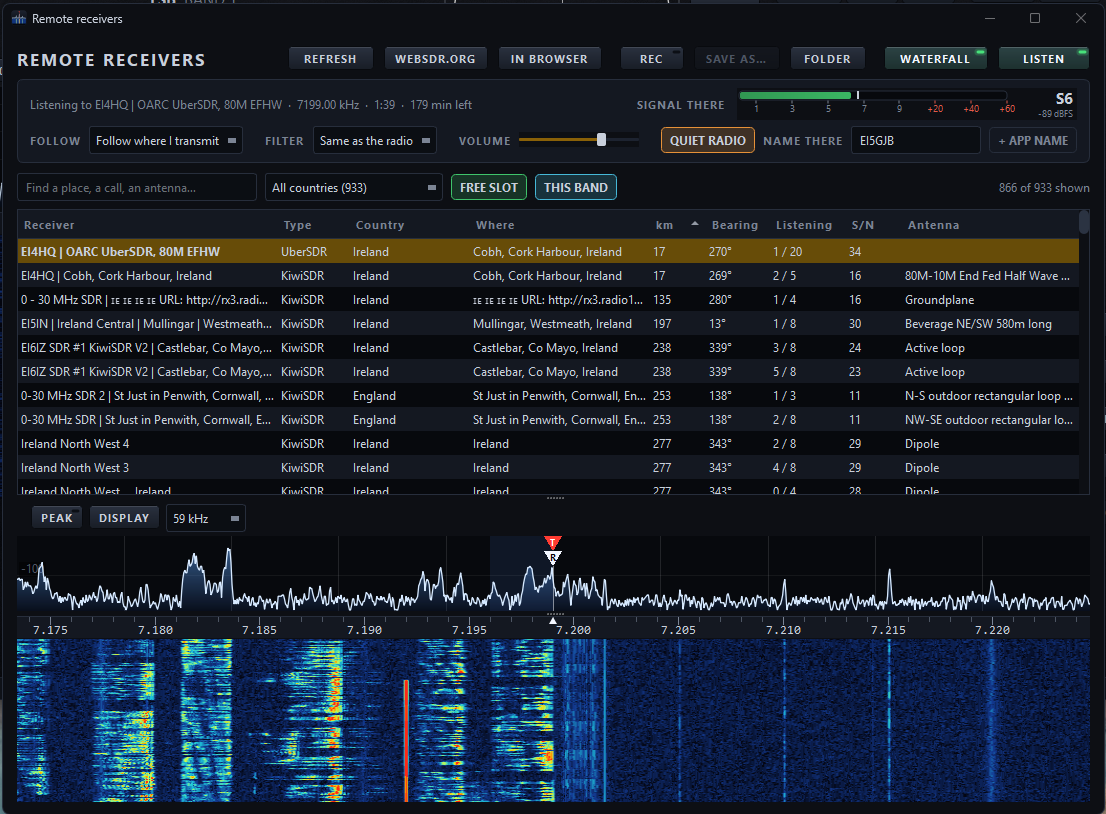
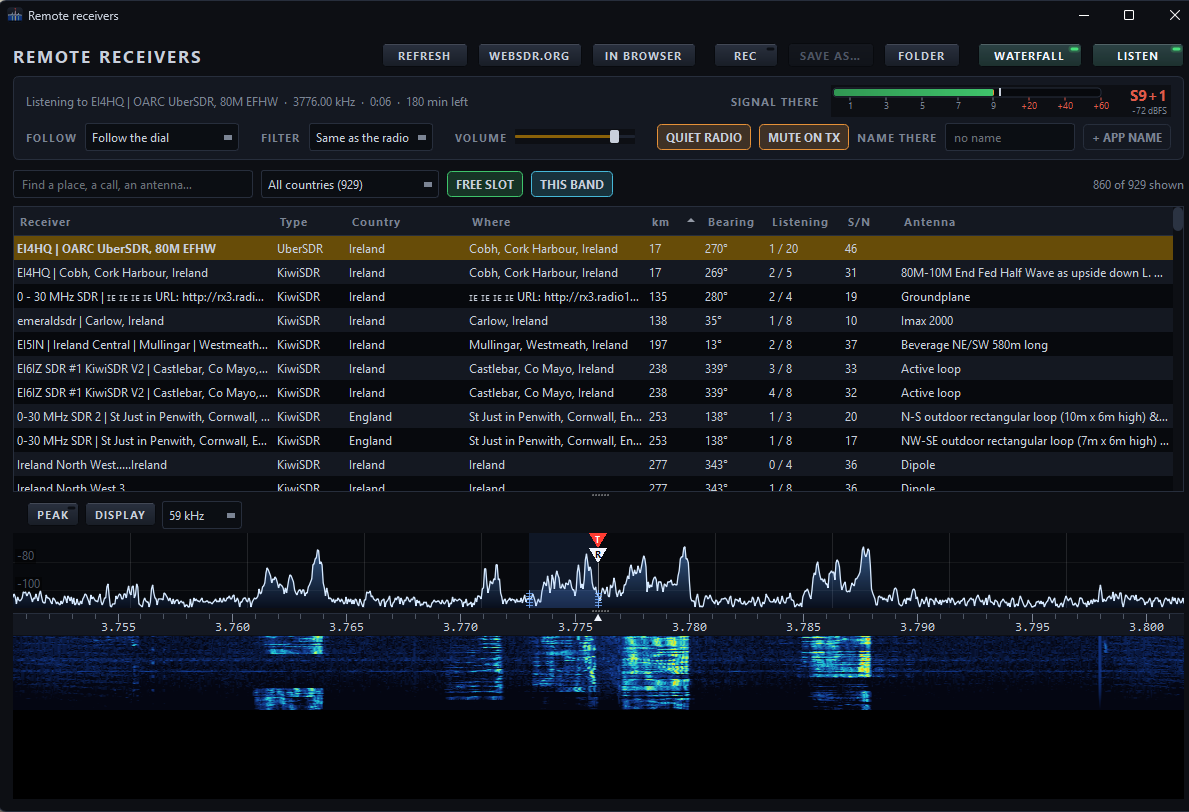
README for 2.4.10: remote audio, MUTE and MUTE ON TX, PROC OUT, filter scope

diff --git a/README.md b/README.md
@@ -27,13 +27,21 @@ comes over your network, because the USB serial link is too slow for a
 smooth scope. Or connect over the network alone, and use the radio from
 somewhere else.
 
-> **Version 2.4.9 replaces every earlier release.** Run its installer and it
+> **Version 2.4.10 replaces every earlier release.** Run its installer and it
 > removes the version you have and puts itself in its place: your settings,
 > layouts and logbook are kept. Updates only go forward, so everyone is on
 > the same version. If you use the Remote Relay at home, update that too
 > (see [Remote operation](#remote-operation-experimental)).
 
-**New in 2.4.9:** [RTTY and PSK31](#cw-rtty-and-psk31) fixed and easier.
+**New in 2.4.10:** [remote receivers](#remote-receivers-hear-yourself-from-far-away)
+sound full instead of thin and tinny, and like your own radio; **MUTE ON
+TX** keeps a remote receiver quiet while you transmit. A **MUTE** key on
+the top row silences the radio's audio through the PC with one press. With
+the speech processor on, the app shows **PROC OUT** as the radio does and
+the MIC knob sets it. And the [filter scope](#the-filter-scope) no longer
+cuts off the top of CW, RTTY and PSK signals.
+
+**In 2.4.9:** [RTTY and PSK31](#cw-rtty-and-psk31) fixed and easier.
 RTTY now decodes properly in USB-D and FSK-R (it printed nonsense before),
 and the CAT log no longer fills with "rejected: SH0" and "rejected: IS" in
 FSK. RTTY and PSK31 can now be sent from any mode, FSK and PSK included:
@@ -443,9 +451,11 @@ radio.
 
 ![Remote receivers](docs/images/remote-receivers.png)
 
-*Listening to an UberSDR in Cobh on 40 m. At the top: who and where, the
-minutes left, the receiver's own S-meter and how it is tuned and heard.
-Below the list, the receiver's waterfall with your R and T markers.*
+*Listening to an UberSDR in Cobh on 80 m, following the dial, with the
+filter the same as the radio's. At the top: who and where, the minutes
+left, the receiver's own S-meter and how it is tuned and heard, with QUIET
+RADIO and MUTE ON TX. Below the list, the receiver's waterfall with your R
+and T markers.*
 
 - **Hear yourself.** With **Follow where I transmit**, the receiver stays on
   your transmit frequency, split and XIT included. Key up and, a second or
@@ -465,14 +475,21 @@ Below the list, the receiver's waterfall with your R and T markers.*
 - **Its own waterfall**, drawn like your radio's bandscope, from 30 MHz
   wide down to 1.8 kHz. Click it to tune your radio there, or the receiver
   alone with Tune it here.
-- **Smooth audio.** A short reserve and its own playing thread ride out the
-  bursts and gaps of audio over the internet.
-- **Filter** copies your radio's own filter, or choose a width (up to 5.7 kHz
+- **Smooth, full audio.** A short reserve and its own playing thread ride
+  out the bursts and gaps of audio over the internet, and the app converts
+  the receiver's audio to your sound card's rate itself, so it sounds as
+  full as in a browser.
+- **Filter** copies your radio's own filter (set as low and high cut, or as
+  width and shift), or choose a width (up to 5.7 kHz
   in SSB, 12 kHz in AM), or **Custom** to set the **LOW** and **HIGH** cut
   yourself, in hertz. You can also drag the edges of the shaded passband on
   the receiver's waterfall. SSB can't go wider than about 5.9 kHz on these
   receivers: their SSB audio is sampled at 12 kHz.
-- **QUIET RADIO** silences your own radio while you listen.
+- **QUIET RADIO** silences your own radio while you listen. The **MUTE**
+  key on the top row does the same any time, one press on and one off,
+  without touching your Listen settings; a remote receiver is still heard.
+- **MUTE ON TX** keeps the receiver quiet while you transmit and brings it
+  back on receive, handy on a net. Leave it off to hear yourself.
 - **REC** records what the receiver plays to a WAV file.
 - **A good guest.** The app only ever uses one listener slot and gives it
   back the moment you stop. You choose the name the owner sees: your
@@ -688,7 +705,8 @@ radio. It shows which receive filter is in use (A, B or C), its settings
 (low cut, bandwidth and high cut, or width and shift), the filter's shape,
 the audio inside it, and the roofing filter. For voice it has a 3 kHz
 scale, and a 5 kHz scale once the high cut goes above 3 kHz, as the radio
-does.
+does. The trace is measured from the noise inside the filter and makes room
+for a strong signal, so nothing is cut off, even with a narrow CW filter.
 
 ### The clock
 
@@ -712,7 +730,7 @@ server, so setting it by hand is greyed out.*
 |---|---|
 | **RIT / XIT** | Whether RIT and XIT are on, and the offset: 0.000 when there is none. |
 | **D.VOX** | Whether DATA VOX is on, and which input it listens to. |
-| **Power / MIC / DELAY** | Your transmit power, microphone gain and delay, for example "5W MIC: 23 DELAY: 3". |
+| **Power / MIC / DELAY** | Your transmit power, microphone gain and delay, for example "5W MIC: 23 DELAY: 3". With the speech processor on it shows **PROC OUT** instead, as the radio does, and the MIC knob sets it. |
 | **TCI** | Which programs are connected to the TCI server, as short tags: **L4OM** for Log4OM, **WSJT** for WSJT-X, **N1MM**, **JTDX**, and so on. If there are more than fit, it shows "+2" and so on. Rest the pointer on it for the full list. |
 
 ## Talk through the computer
